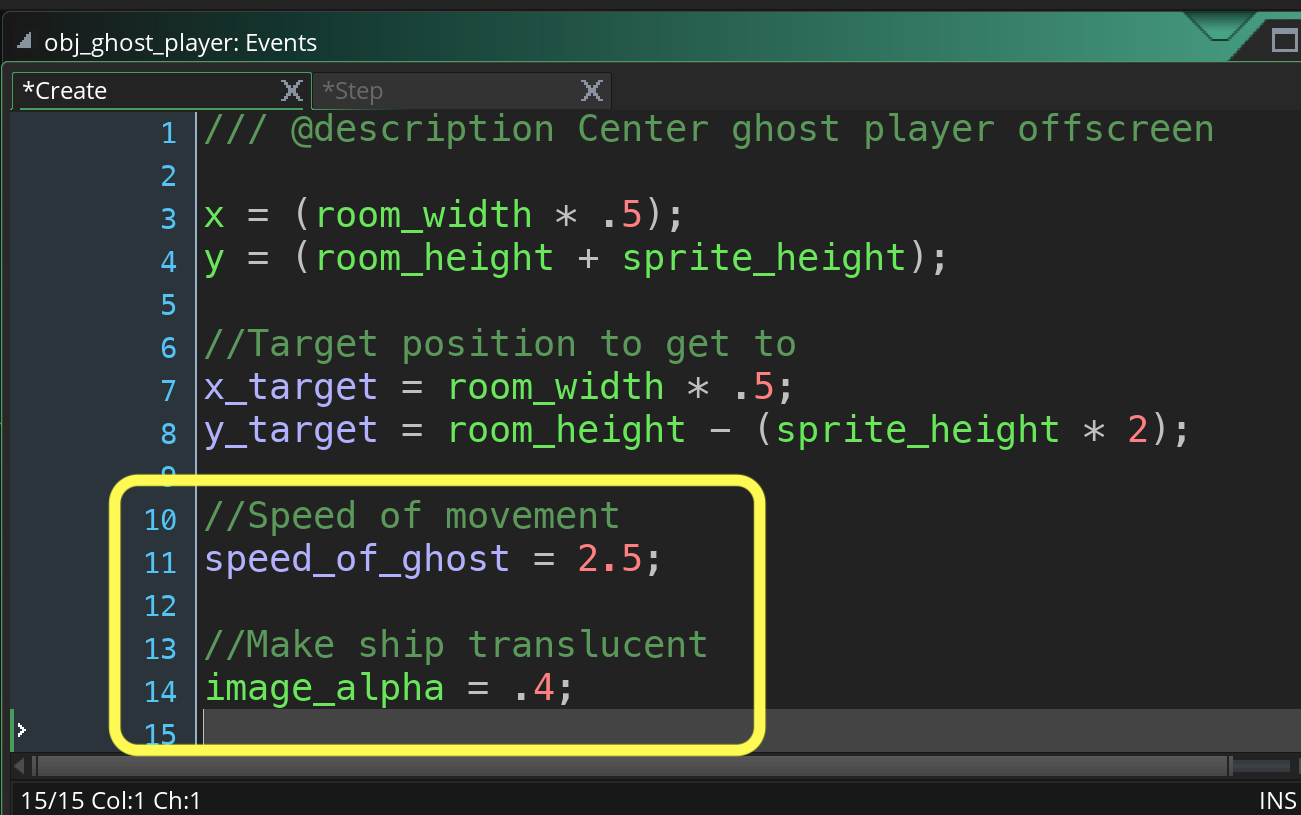
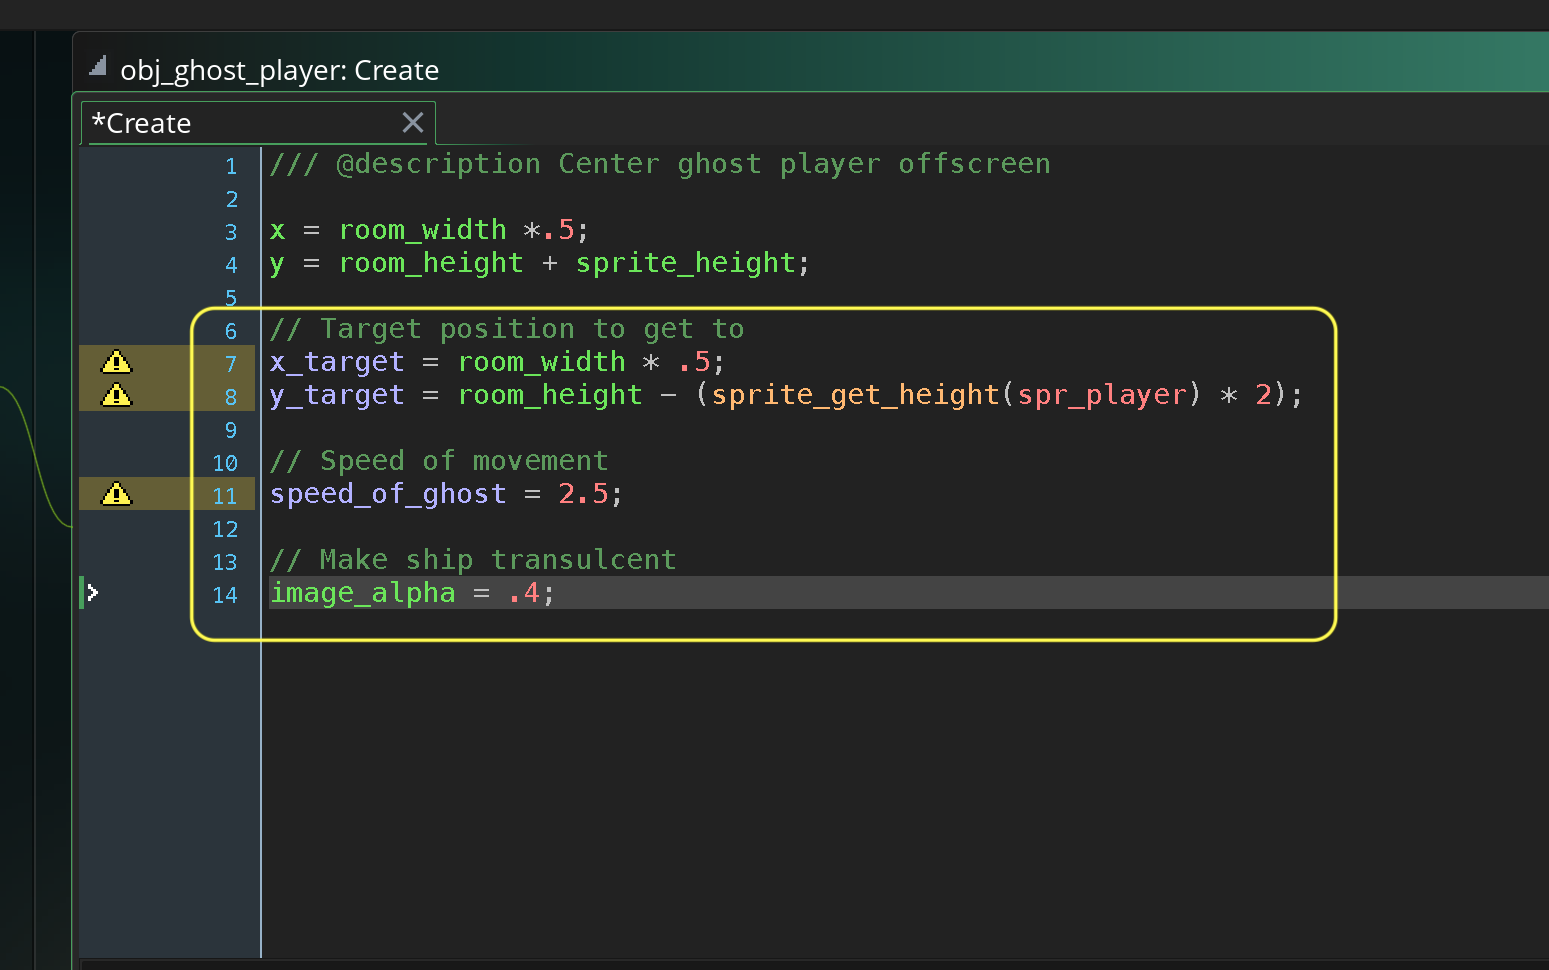
Update updating top down shooter

Changed region(s): [[0.0, 0.0, 1.0, 1.0], [0.8301, 0.4908, 0.9224, 0.5521]]

diff --git a/ghost-mode/README.md b/ghost-mode/README.md
@@ -108,7 +108,7 @@ Look at **obj_game_controller: Create** event and look at where the game spawns 
 
 ##### `Step 11.`\|`SPCRK`| :large_blue_diamond: :small_blue_diamond: 
 
-Lets add a speed of how fast to go back to starting point as well as making the sprite partially translucent. This is a common trick to let the player know that the player is invincible and not under player control. Open up the **obj_ghost_player: Create** event and add.
+Lets add the location to go to, a speed of how fast to go back to starting point as well as making the sprite partially translucent. This is a common trick to let the player know that the player is invincible and not under player control. Open up the **obj_ghost_player: Create** event and add.
 
 ![Add speed to player to return to starting point](images/SpeedTransulencyGhost.png)
 
@@ -126,7 +126,9 @@ Press the <kbd>Add Event</kbd> and select a **Step | Step** event. We will use t
 
 ##### `Step 13.`\|`SPCRK`| :large_blue_diamond: :small_blue_diamond: :small_blue_diamond:  :small_blue_diamond: 
 
-![alt_text](images/.png)
+Now *press* the <kbd>Play</kbd> button in the top menu bar to launch the game. Get shot on purpose and get your health to 0. Notice that the player object changes, goes offscreen and comes back on screen:
+
+![Play game and ghost now moves back to center of screen](images/GhostModeFirstPass.gif)
 
 <img src="https://via.placeholder.com/500x2/45D7CA/45D7CA" alt="drawing" height="2px" alt = ""/>
 
